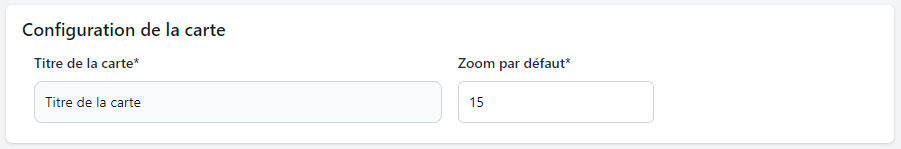
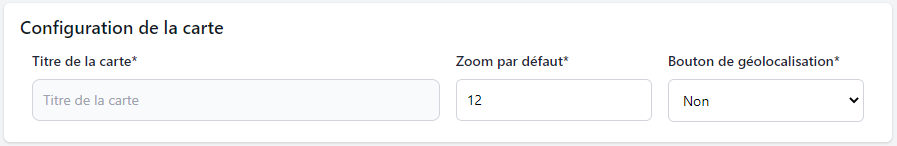
Ajout du bouton de géolocalisation sur le formulaire/manuel

diff --git a/balades/formulaire/librairies/script.js b/balades/formulaire/librairies/script.js
@@ -244,27 +244,7 @@ var map = new ol.Map({
                     matrixIds: matrixIds
                 })
             })
-        }) /*
-        new ol.layer.Tile({
-            source: new ol.source.WMTS({
-                url:  "https://public.sig.rennesmetropole.fr/geowebcache/service/wmts?service/wmts?",
-                crossOrigin: null,
-                layer: "ref_fonds:pvci_simple_gris",
-                matrixSet: matrixset,
-                style: "_null",
-                format: "image/png",
-                attributions: "&lt;a href=&quot;https://public.sig.rennesmetropole.fr/geonetwork/srv/fre/catalog.search#/metadata/2ff4b02a-7d1e-4e9c-a0c2-dddbb11a3168&quot; target=&quot;_blank&quot; &gt;Rennes Métropole&lt;/a&gt;",
-                projection: projection,
-                tileGrid: new ol.tilegrid.WMTS({
-                    origin: ol.extent.getTopLeft(projection.getExtent()),
-                    resolutions: resolutions,
-                    matrixIds: matrixIds
-                })
-            })
-        }) /*
-        new ol.layer.Tile({
-            source: new ol.source.OSM()
-        }) */
+        }),
     ],
     view: new ol.View({
         center: ol.proj.fromLonLat([-1.67, 48.11]),
@@ -526,7 +506,7 @@ document.querySelector("#envoyerFormulaireConfirm").addEventListener('click', ()
 
                         <extensions>
                             <extension type="component" id="GUICustom" path="apps/public/addons"/>
-                            <extension type="component" id="balades" path="apps/balades/addons" configFile="/apps/balades/parametrage/param_${uid}.json" />
+                            <extension type="component" id="balades" path="apps/balades/addons" configFile="/apps/balades/parametrage/param_${uid}.json" geoloc="${document.querySelector("#affichageBoutonGeolocalisation").value}"/>
                         </extensions>
                         
                         <themes mini="true" legendmini="false">

diff --git a/balades/formulaire/index.html b/balades/formulaire/index.html
@@ -167,6 +167,17 @@
                                         <input type="number" id="zoomDefaut" name="zoomDefaut" value="12"
                                             class="block w-full p-2.5 text-base border border-gray-300 focus:outline-none sm:text-sm rounded-md" required>
                                     </div>
+                                    <div class="mx-2 my-2">
+                                        <label for="affichageBoutonGeolocalisation"
+                                            class="block text-sm font-medium text-gray-800 mb-2">Bouton de géolocalisation*</label>
+                                        <select id="affichageBoutonGeolocalisation" name="affichageBoutonGeolocalisation"
+                                            style="max-width: 200px;"
+                                            class="block w-full p-2.5 text-base border border-gray-300 focus:outline-none sm:text-sm rounded-md"
+                                            required>
+                                            <option value="false" selected>Non</option>
+                                            <option value="true">Oui</option>
+                                        </select>
+                                    </div>
                                 </div>
                         </div>
                     </div>

diff --git a/balades/formulaire/manuel_utilisateur.html b/balades/formulaire/manuel_utilisateur.html
@@ -141,6 +141,7 @@
                         <ol class="list-disc ml-12 my-2">
                             <li><b>Titre de la carte*</b> : le titre de la carte MViewer</li>
                             <li><b>Zoom par défaut*</b> : zoom à l'ouverture de la carte de balade sur MViewer, le zoom se modifie automatiquement en fonction du zoom de la carte de visualisation</li>
+                            <li><b>Bouton de géolocalisation*</b> : affiche ou non le bouton de géolocalisation sur la carte de balade</li>
                         </ol>
                     </li>
                     <li class="mb-4" id="etape-2-4" style="scroll-margin-top: 4.2rem;">

diff --git a/balades/addons/balades/js/baladesAddon.js b/balades/addons/balades/js/baladesAddon.js
@@ -287,7 +287,7 @@ var baladesAddon = (function () {
         mviewer.customLayers[layer_points].layer.changed();
         // if (!feature)
         //    currentIdBalade = -1;
-        if (feature && feature.getGeometry().getType() == 'Point') {
+        if (feature && feature.getGeometry().getType() == 'Point' && feature.get('id')) {
             document.getElementById('prevButton').style.display = 'block';
             document.getElementById('prevButton').disabled = false;
             document.getElementById('nextButton').disabled = true;
